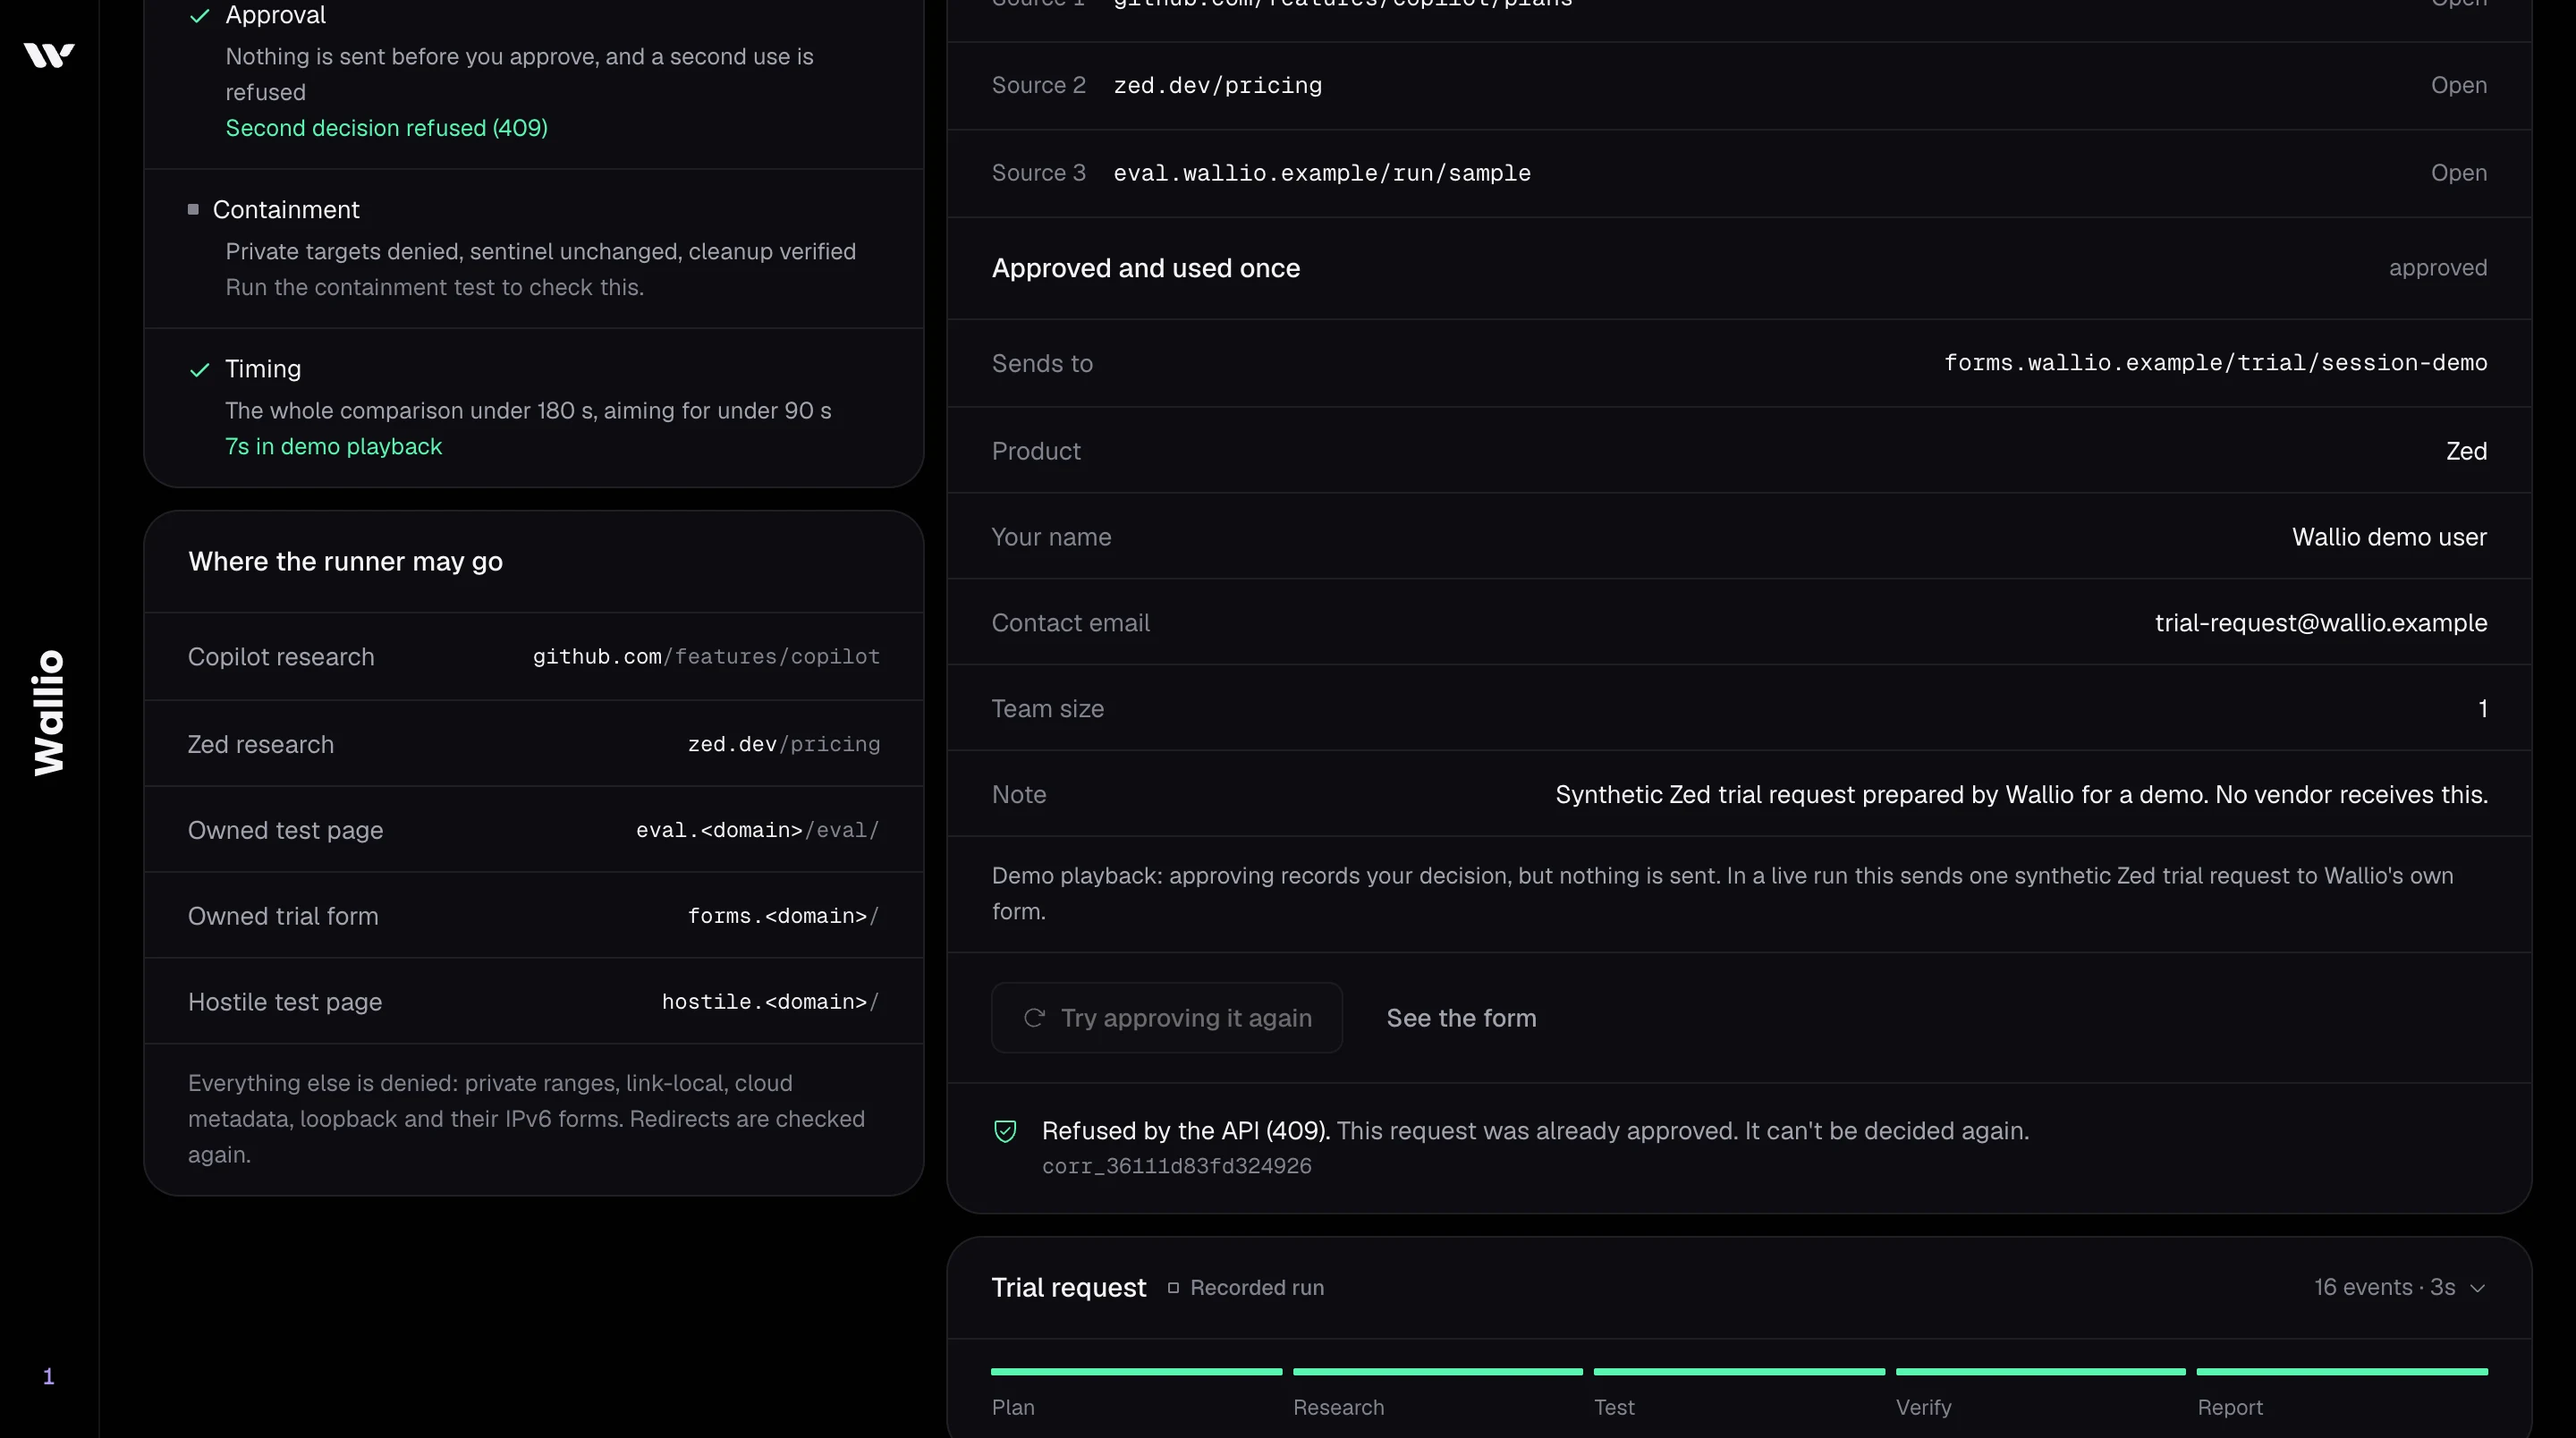
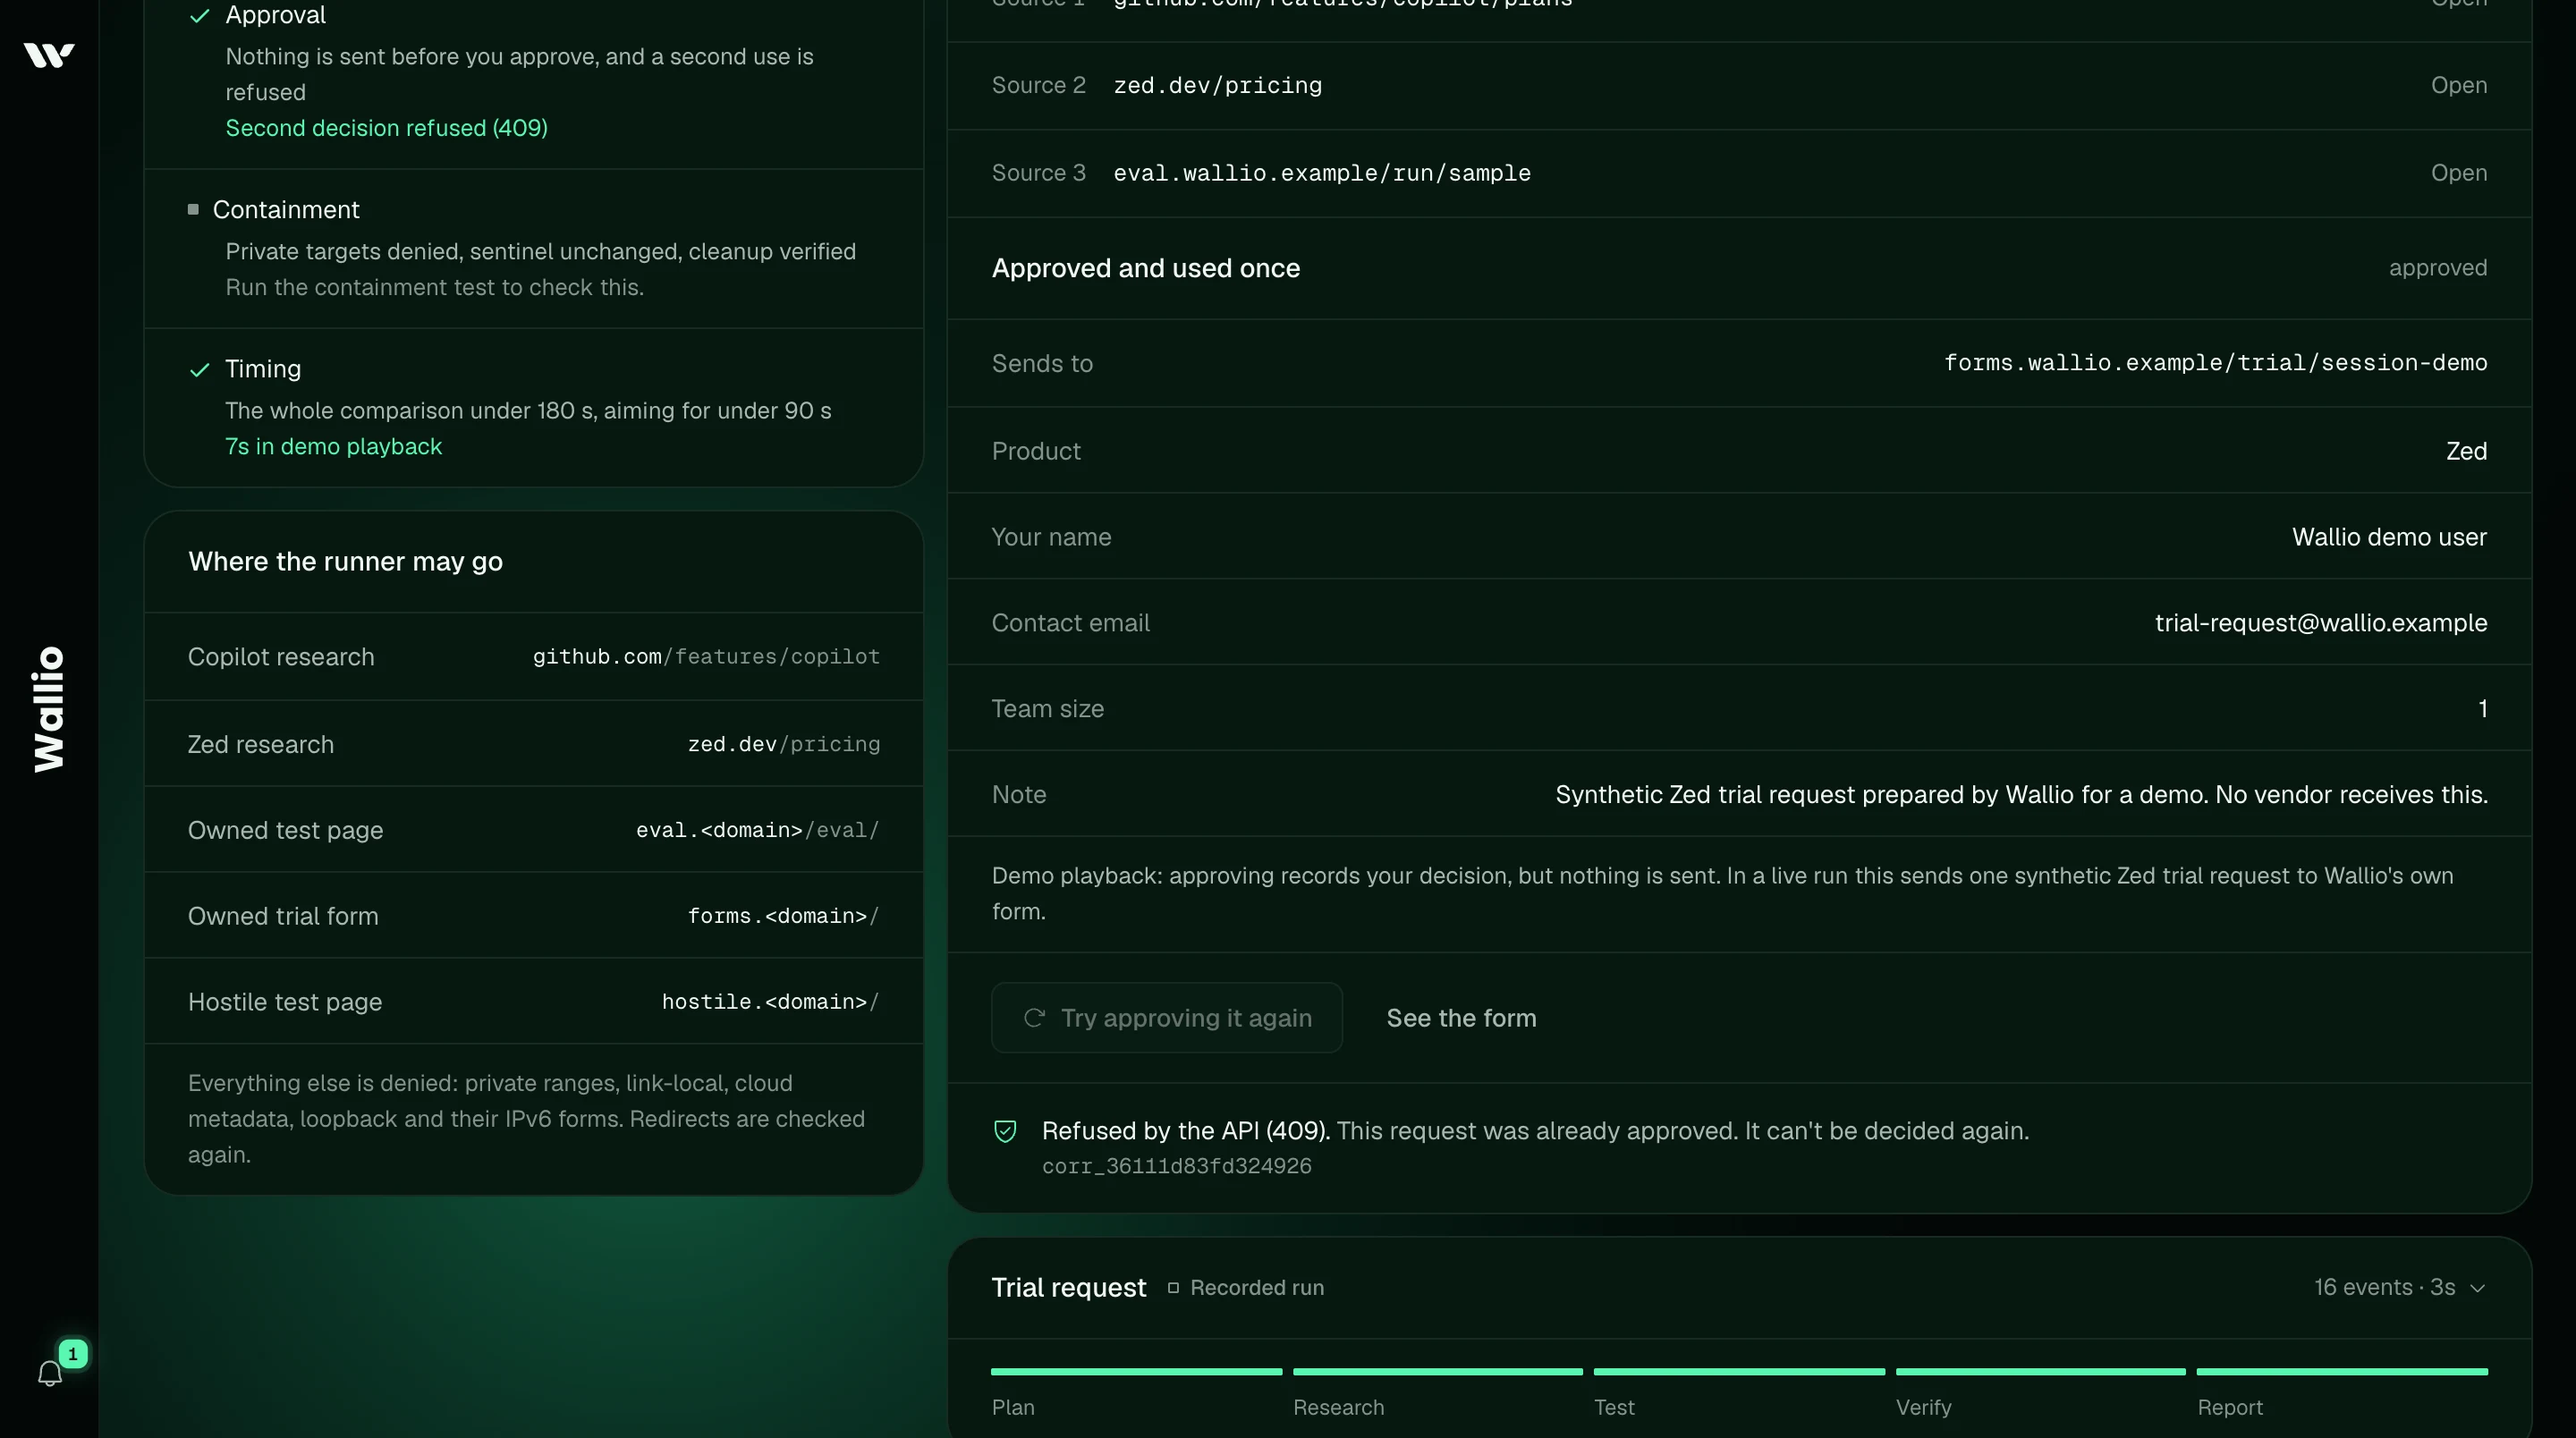
Landing: no purple; the ball glows aurora under the cursor
- The hero ball no longer parts around the cursor. Digits near it light up in aurora,
  brightest at the centre and fading over a soft radius, and stay in place.
- Lavender tokens become pale aurora: eyebrow and button gradients, statement text
  colour, the pale stat card, and the Los Angeles pin.
- Retook the Compare run and approval screenshots in the current theme.

Changed region(s): [[0.0, 0.2177, 0.5312, 1.0]]

diff --git a/web/src/components/landing/landing.css b/web/src/components/landing/landing.css
@@ -1,7 +1,7 @@
 /*
  * Landing page system. Layout, type sizes and motion follow the reference measured at
  * 1512 x 944, where 1rem = 16px; the root scales with the viewport the way the reference's
- * fluid type does. Colours are Wallio's: their teal becomes our mint, their pink our lavender.
+ * fluid type does. Colours are Wallio's: their teal becomes our mint, their pink our aurora.
  * Phones get a fixed 16px root.
  */
 html:has(.wl-root) {
@@ -34,10 +34,10 @@ body:has(.wl-root) {
     --wl-mint: #c9ffe6; /* (#cbfffc) */
     --wl-100: #effff8; /* (#edfffe) */
     --wl-cream: #fffdfa;
-    /* Their pink, in our lavender */
-    --wl-lav: #ddd0ff; /* (#fad1ff) */
-    --wl-lav-100: #efe9ff; /* (#fde9ff) */
-    --wl-lav-200: #c9b8f7; /* (#ebcbef) */
+    /* Their pink, in our aurora (the dashboard's hint colour, paled) */
+    --wl-aur: #c2f0ec; /* (#fad1ff) */
+    --wl-aur-100: #e3f8f5; /* (#fde9ff) */
+    --wl-aur-200: #84d8cf; /* (#ebcbef) */
     --wl-silver: #bcc6c2; /* (#bbc7c6) */
 
     background: transparent;
@@ -82,14 +82,14 @@ body:has(.wl-root) {
     text-transform: uppercase;
   }
 
-  /* Eyebrow: wide-tracked caps filled with the mint-to-lavender gradient */
+  /* Eyebrow: wide-tracked caps filled with the mint-to-aurora gradient */
   .wl-eyebrow {
     font-size: 1.25rem;
     line-height: 1.75rem;
     font-weight: 600;
     letter-spacing: 0.3rem;
     text-transform: uppercase;
-    background: linear-gradient(90deg, var(--wl-mint) 0%, var(--wl-100) 26.25%, var(--wl-cream) 47.57%, var(--wl-lav) 88.96%);
+    background: linear-gradient(90deg, var(--wl-mint) 0%, var(--wl-100) 26.25%, var(--wl-cream) 47.57%, var(--wl-aur) 88.96%);
     -webkit-background-clip: text;
     background-clip: text;
     color: transparent;
@@ -111,7 +111,7 @@ body:has(.wl-root) {
     white-space: nowrap;
   }
   .wl-btn-light {
-    background: linear-gradient(90deg, var(--wl-lav), var(--wl-cream), var(--wl-100), var(--wl-mint), var(--wl-mint), var(--wl-100), var(--wl-cream), var(--wl-lav));
+    background: linear-gradient(90deg, var(--wl-aur), var(--wl-cream), var(--wl-100), var(--wl-mint), var(--wl-mint), var(--wl-100), var(--wl-cream), var(--wl-aur));
     background-size: 200% 100%;
     background-position: 100% 0%;
     transition: background-position 600ms ease;
@@ -121,7 +121,7 @@ body:has(.wl-root) {
     background-position: 0% 0%;
   }
   .wl-btn-mint {
-    background: linear-gradient(90deg, var(--wl-mint), var(--wl-lav), var(--wl-btn), var(--wl-700));
+    background: linear-gradient(90deg, var(--wl-mint), var(--wl-aur), var(--wl-btn), var(--wl-700));
     background-size: 280% 100%;
     background-position: 100% 0%;
     transition:
@@ -179,7 +179,7 @@ body:has(.wl-root) {
     line-height: 1;
     font-weight: 600;
     letter-spacing: -3.479px;
-    background-image: linear-gradient(90deg, var(--wl-100) 0%, var(--wl-lav) 100%);
+    background-image: linear-gradient(90deg, var(--wl-100) 0%, var(--wl-aur) 100%);
     -webkit-background-clip: text;
     background-clip: text;
     color: transparent;

diff --git a/web/src/components/landing/sections/digit-ball.tsx b/web/src/components/landing/sections/digit-ball.tsx
@@ -7,8 +7,9 @@ import { useReducedMotionConfig } from "motion/react";
  * The hero's liquid ball, after the reference's: about 41,000 particles filling a ball, each
  * drawn as a tiny digit in one of four mint shades. The reference runs a real fluid
  * simulation on WebGPU; this is a WebGL stand-in that moves the particles with layered flow
- * so the ball slowly churns and loses its round edge, and pushes them away from the cursor,
- * tinting the pushed ones lavender. Works in world units of CSS pixels.
+ * so the ball slowly churns and loses its round edge. Near the cursor the digits light up in
+ * aurora, fading out over a soft radius, and stay where they are. Works in world units of
+ * CSS pixels.
  *
  * Placement: the canvas covers the hero and the giant text below it. The ball's centre sits
  * 760px down the canvas and 33px right of centre, and sinks about a fifth as fast as the page
@@ -23,7 +24,7 @@ uniform vec3 uCenter;
 uniform vec2 uMouse;
 uniform float uForce;
 uniform vec3 uShades[4];
-uniform vec3 uLav;
+uniform vec3 uGlow, uGlowHi;
 varying vec3 vColor;
 varying float vDigit;
 
@@ -55,12 +56,9 @@ void main() {
   // Surface points shiver a little more than the core.
   p += (aInfo.z - 0.5) * smoothstep(0.75, 1.0, length(q)) * uR * 0.03 * vec3(sin(t * 2.0 + aInfo.z * 40.0), cos(t * 1.7 + aInfo.z * 30.0), 0.0);
 
-  // The cursor pushes particles out of its way.
-  vec2 rel = (p.xy + uCenter.xy) - uMouse;
-  float d = length(rel);
-  float push = uForce * (1.0 - smoothstep(0.0, uR * 0.62, d));
-  p.xy += normalize(rel + 1e-4) * push * uR * 0.28;
-  p.z += push * uR * 0.12;
+  // The cursor lights the digits around it in aurora: brightest at the centre, fading out.
+  float d = length((p.xy + uCenter.xy) - uMouse);
+  float glow = uForce * (1.0 - smoothstep(0.0, uR * 0.5, d));
 
   vec3 world = p + uCenter;
   vec4 mv = modelViewMatrix * vec4(world, 1.0);
@@ -75,9 +73,10 @@ void main() {
   vec3 n = normalize(p + 1e-3);
   float lit = clamp(dot(n, normalize(vec3(-0.65, 0.45, 0.6))) * 0.5 + 0.5, 0.0, 1.0);
   col *= 0.6 + 0.8 * lit;
-  vColor = mix(col, uLav, clamp(push * 1.6, 0.0, 1.0));
+  vec3 lightCol = mix(uGlow, uGlowHi, smoothstep(0.35, 0.9, glow));
+  vColor = mix(col, lightCol, clamp(glow * 1.3, 0.0, 0.9));
   vDigit = aInfo.x;
-  gl_PointSize = 5.4 * uPixel * (uDist / -mv.z);
+  gl_PointSize = 5.4 * uPixel * (uDist / -mv.z) * (1.0 + 0.12 * glow);
 }
 `;
 
@@ -168,7 +167,8 @@ export function DigitBall({ className }: { className?: string }) {
           uMouse: { value: new THREE.Vector2(9999, 9999) },
           uForce: { value: 0 },
           uShades: { value: shades },
-          uLav: { value: new THREE.Color("#ddd0ff") },
+          uGlow: { value: new THREE.Color("#84d8cf") },
+          uGlowHi: { value: new THREE.Color("#b4ece5") },
           uDigits: { value: atlas },
         },
         vertexShader: VERT,

diff --git a/web/src/components/landing/sections/limits.tsx b/web/src/components/landing/sections/limits.tsx
@@ -5,7 +5,7 @@ import { LIMITS } from "../content";
 import { cn } from "@/lib/utils";
 
 /**
- * The numbers, in the reference's bento: a tall pale card on the left (lavender to cream to
+ * The numbers, in the reference's bento: a tall pale card on the left (aurora to cream to
  * mint) and three deep mint cards on the right, one wide over two. Each card hides a faint
  * dot grid that lights up around the cursor, like the reference's card effect.
  */
@@ -40,7 +40,7 @@ function Card({ card, pale, className }: { card: (typeof LIMITS.cards)[number]; 
       className={cn(
         "group relative flex min-h-[18.125rem] flex-col justify-between overflow-hidden rounded-[1rem] p-[2.25rem]",
         pale
-          ? "bg-[radial-gradient(41288.31%_255.77%_at_-42.4%_-22.13%,var(--wl-lav)_0%,var(--wl-cream)_44.72%,var(--wl-100)_85.38%,var(--wl-mint)_100%)] text-[var(--wl-900)]"
+          ? "bg-[radial-gradient(41288.31%_255.77%_at_-42.4%_-22.13%,var(--wl-aur)_0%,var(--wl-cream)_44.72%,var(--wl-100)_85.38%,var(--wl-mint)_100%)] text-[var(--wl-900)]"
           : "bg-[var(--wl-800)]",
         className,
       )}
@@ -64,7 +64,7 @@ function Card({ card, pale, className }: { card: (typeof LIMITS.cards)[number]; 
       <div
         className={cn(
           "relative mt-8 text-[5.67rem] leading-none font-semibold tracking-[-0.25rem] max-md:text-[4rem]",
-          pale ? "text-[var(--wl-900)]" : "text-[var(--wl-lav-100)]",
+          pale ? "text-[var(--wl-900)]" : "text-[var(--wl-aur-100)]",
         )}
       >
         {card.value}

diff --git a/web/src/components/landing/sections/vultr.tsx b/web/src/components/landing/sections/vultr.tsx
@@ -9,7 +9,7 @@ import { landMask } from "../land";
  * "Built on Vultr", in the reference's globe card: copy on the left over deep mint, and on
  * the right a huge glowing planet, half off the card, with the land printed on it as a grid
  * of small dark dots. Ours is a real map (Natural Earth, orthographic), turned so the
- * Americas face us, with a lavender pin where the API runs: Los Angeles.
+ * Americas face us, with an aurora pin where the API runs: Los Angeles.
  */
 const LON0 = -55;
 const LAT0 = 30;
@@ -126,7 +126,7 @@ export function Vultr() {
             aria-hidden="true"
             className="pointer-events-none absolute flex -translate-y-1/2 items-center gap-[0.6rem] opacity-0 transition-opacity duration-500 max-md:hidden"
           >
-            <span className="relative size-[0.75rem] -translate-x-1/2 rounded-full bg-[var(--wl-lav)] shadow-[0_0_0_0.35rem_rgba(221,208,255,0.35),0_0_1.5rem_0.4rem_rgba(221,208,255,0.6)]" />
+            <span className="relative size-[0.75rem] -translate-x-1/2 rounded-full bg-[#3fb3a6] shadow-[0_0_0_0.35rem_rgba(98,198,187,0.35),0_0_1.5rem_0.4rem_rgba(98,198,187,0.55)]" />
             <span className="rounded-[0.375rem] bg-[rgba(3,20,13,0.78)] px-[0.6rem] py-[0.35rem] text-[0.75rem] leading-none tracking-[0.09rem] text-white uppercase backdrop-blur-sm">
               {VULTR.pin}
             </span>

diff --git a/web/src/components/landing/sections/statement.tsx b/web/src/components/landing/sections/statement.tsx
@@ -7,11 +7,11 @@ import { cn } from "@/lib/utils";
 /**
  * A big statement between sections, as the reference does it: three quarters of a screen
  * tall, the text centred, every line a gradient. As the block crosses 60% of the screen,
- * each line in turn shifts from deep mint into pale mint and lavender. The lines overlap
+ * each line in turn shifts from deep mint into pale mint and aurora. The lines overlap
  * like the reference's stagger: each takes 0.5 of the run and starts 0.3 after the last.
  */
 const FROM = ["#128a5e", "#effff8"];
-const TO = ["#c9ffe6", "#ddd0ff"];
+const TO = ["#c9ffe6", "#a8e6de"];
 
 export function Statement({ lines, className }: { lines: string[]; className?: string }) {
   const ref = useRef<HTMLDivElement>(null);

diff --git a/web/src/components/landing/ui.tsx b/web/src/components/landing/ui.tsx
@@ -25,7 +25,7 @@ export function Arrow({ className }: { className?: string }) {
 
 const external = (href: string) => href.startsWith("http");
 
-/** Button. `light` is the pale mint-to-lavender one, `mint` the deep one that brightens on hover. */
+/** Button. `light` is the pale mint-to-aurora one, `mint` the deep one that brightens on hover. */
 export function Btn({
   href,
   variant = "light",
